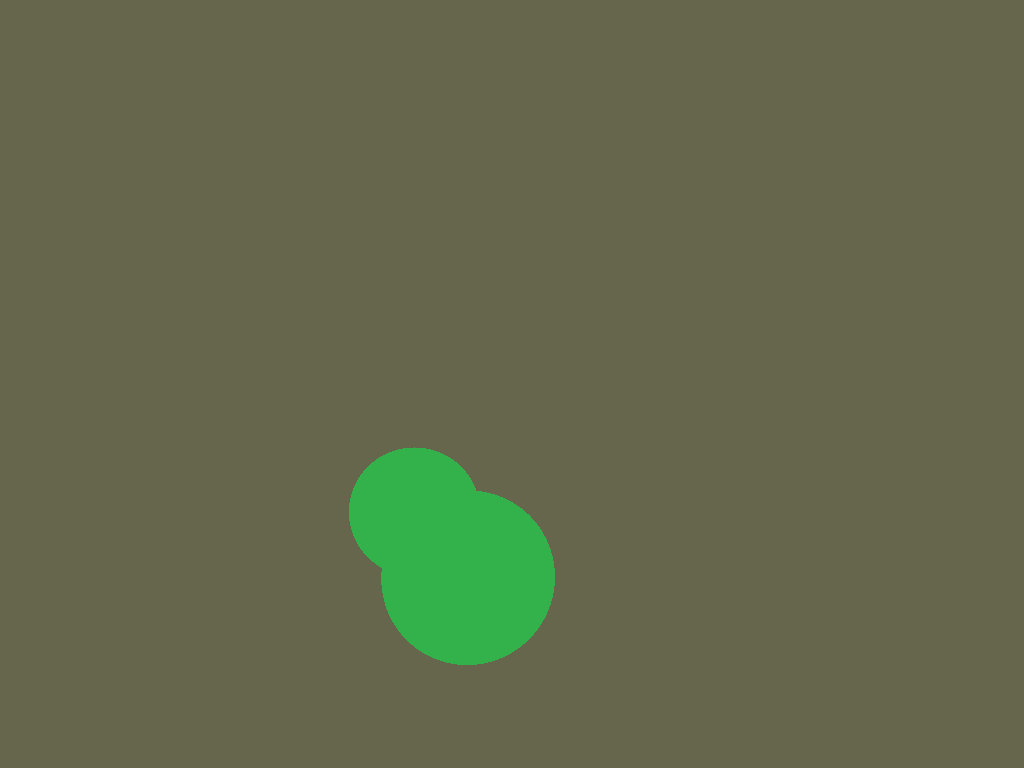
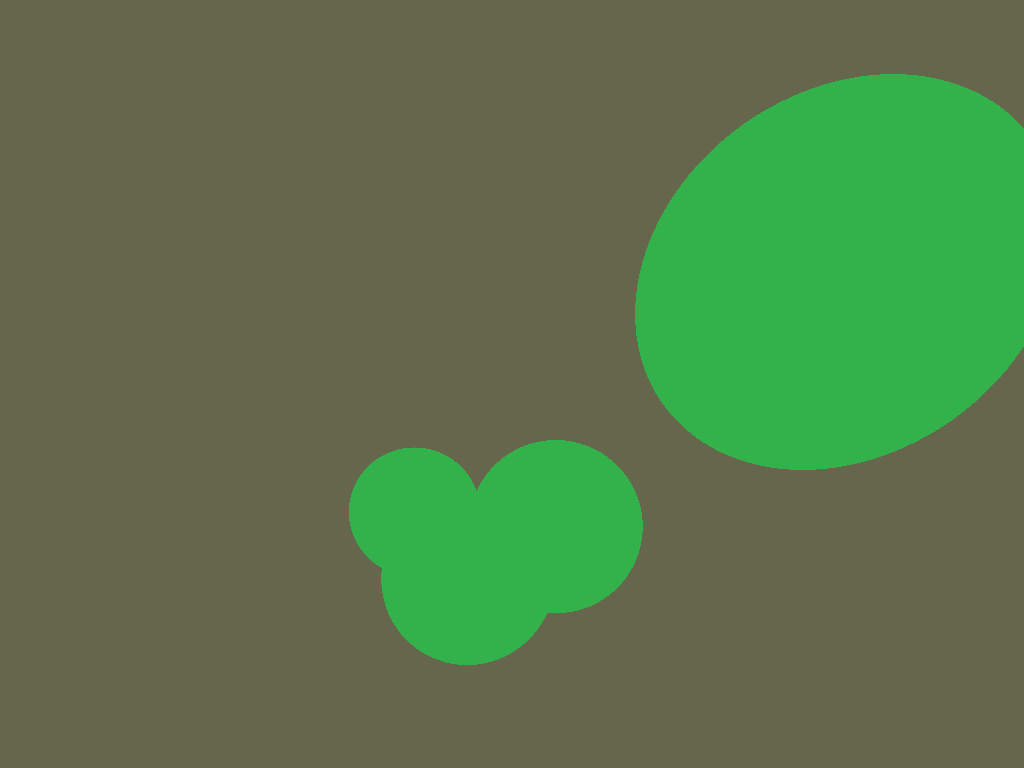
Fixing Pov

Changed region(s): [[0.5938, 0.0938, 1.0, 0.625], [0.4688, 0.5625, 0.625, 0.8125]]

diff --git a/src/main.rs b/src/main.rs
@@ -1,6 +1,6 @@
+use std::f32::consts::PI;
 use std::fs::File;
 use std::io::Write;
-use std::f32::consts::PI;
 
 const WIDTH: u32 = 1024;
 const HEIGHT: u32 = 768;
@@ -83,21 +83,26 @@ impl Sphere {
 
 struct Scene {
     objects: Vec<Sphere>,
+    lights: Vec<Light>,
 }
 
 impl Scene {
-    fn new(spheres: Vec<Sphere>) -> Self {
-        Scene { objects: spheres }
+    fn new(spheres: Vec<Sphere>, lights: Vec<Light>) -> Self {
+        Scene { objects: spheres, lights }
     }
 
     /// Returns the color of the pixel the ray originates from
     fn cast_ray(&self, ray: &Ray) -> Vec3f {
-        for o in self.objects.iter()
-        {
+        for o in self.objects.iter() {
             if o.intersects_with_ray(&ray) {
+                // Now tracing path to light
+                let diffuse_light_intensity: f32 = 0.;
+
+//                for light in self.lights.iter() {
+//                    let light_dir = light.position.minus(ray.)
+//                }
                 return Vec3f::new(0.2, 0.7, 0.3);
             }
-
         }
         return Vec3f::new(0.4, 0.4, 0.3);
     }
@@ -105,10 +110,10 @@ impl Scene {
     fn render(&self) -> Vec<Vec3f> {
         let mut frame_buffer = Vec::<Vec3f>::with_capacity((WIDTH * HEIGHT) as usize);
 
-        let fov = PI/2.;
+        let fov = PI / 2.;
         for j in 0..HEIGHT {
             for i in 0..WIDTH {
-                let x: f32 = (2. * (i as f32 + 0.5) / WIDTH as f32 - 1.) * f32::tan(fov / 2.) ;
+                let x: f32 = (2. * (i as f32 + 0.5) / WIDTH as f32 - 1.) * f32::tan(fov / 2.);
                 let y: f32 = -(2. * (j as f32 + 0.5) / WIDTH as f32 - 1.) * f32::tan(fov / 2.);
                 let ray = Ray {
                     origin: Vec3f::new(0., 0., 0.),
@@ -123,6 +128,17 @@ impl Scene {
     }
 }
 
+struct Light {
+    position: Vec3f,
+    intensity: f32,
+}
+
+impl Light {
+    fn new(position: Vec3f, intensity: f32) -> Self {
+        Light { position, intensity }
+    }
+}
+
 
 fn main() {
     let mut image_buffer = image::ImageBuffer::new(WIDTH, HEIGHT);
@@ -132,8 +148,13 @@ fn main() {
     let spheres = vec![
         Sphere { radius: 2.0, center: Vec3f::new(-3., 0., -16.) },
         Sphere { radius: 2.0, center: Vec3f::new(-1., -1.5, -12.) },
+        Sphere { radius: 3., center: Vec3f::new(1.5, -0.5, -18.) },
+        Sphere { radius: 4., center: Vec3f::new(7., 5., -12.) },
     ];
-    let scene = Scene::new(spheres);
+    let lights = vec![
+        Light {intensity: 1., position: Vec3f::new(0., 0., 0.)}
+    ];
+    let scene = Scene::new(spheres, lights);
     let mut frame_buffer = scene.render();
 
 
